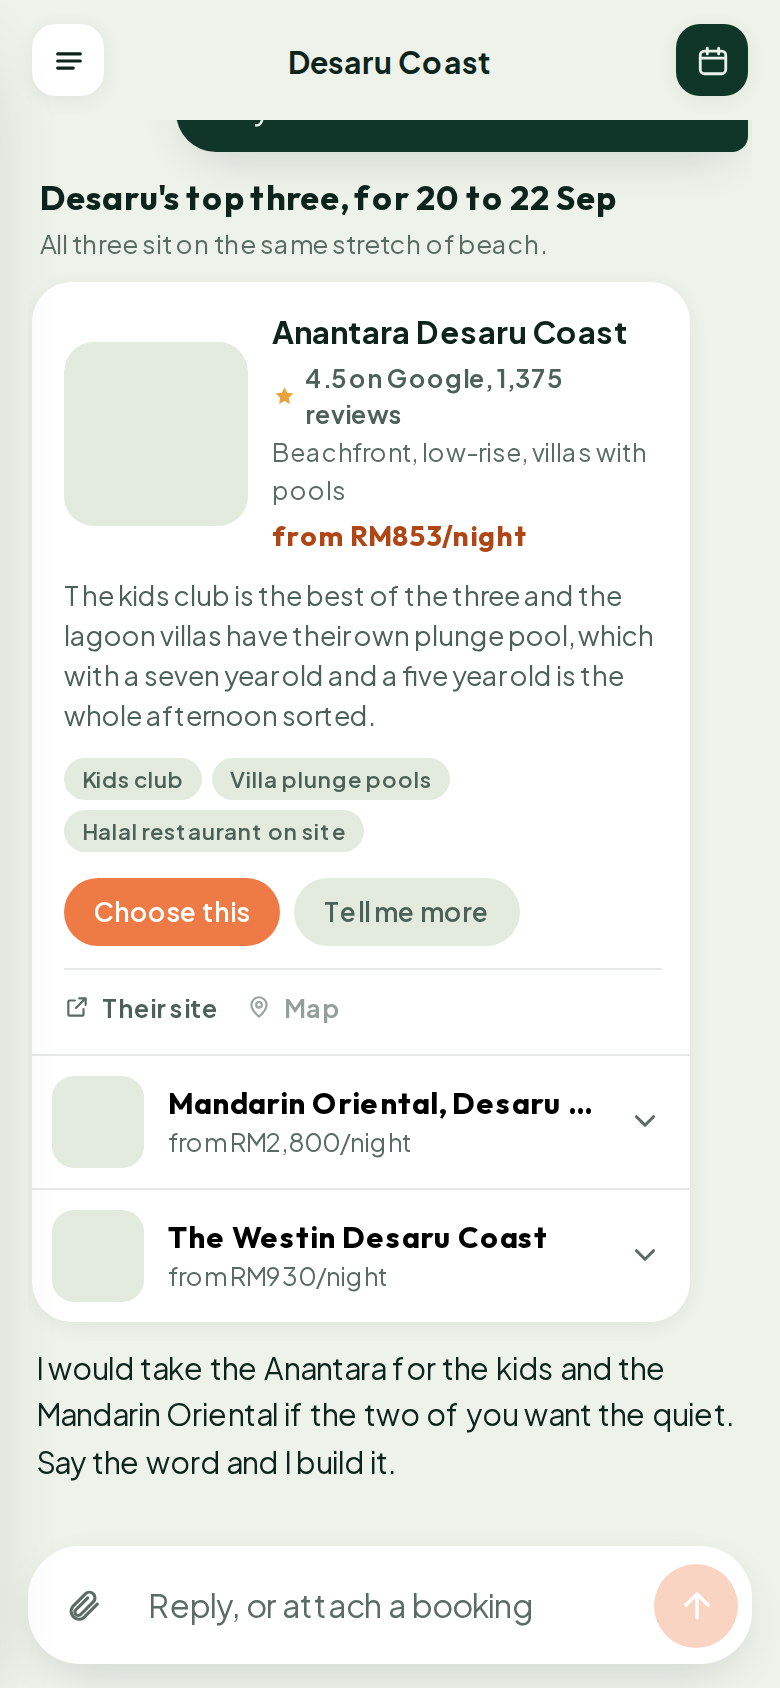
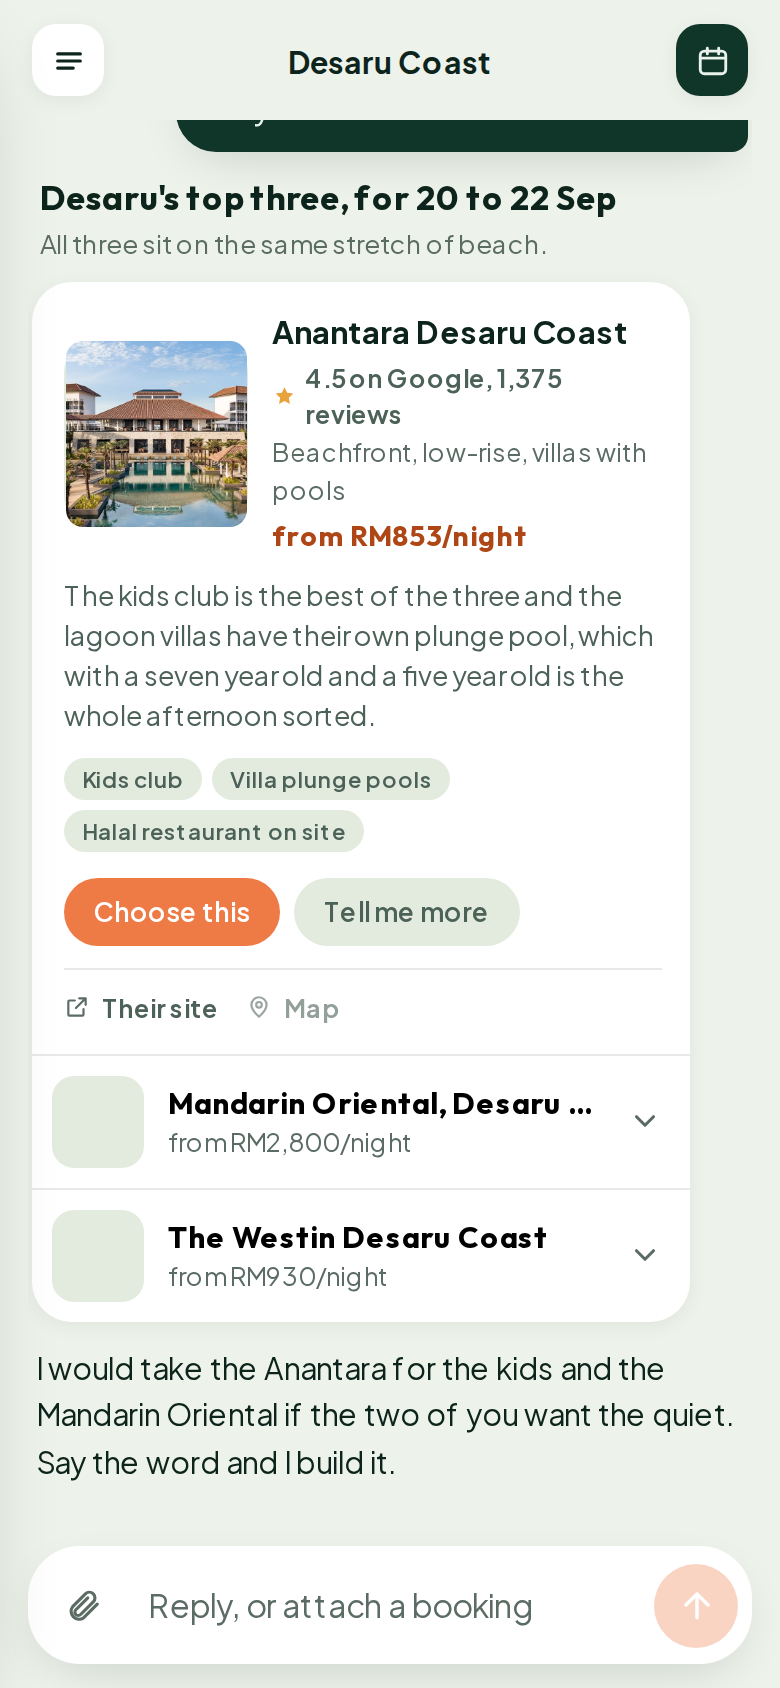
Swap the two rows, label the checks by kind, and fill the empty hotel photo
The trip types move up under the ask bar, where they read as the sort of thing
you might type next rather than a list appended to the destinations. The four
checks move down under the cards, one to a column, which lines them up with
something instead of floating.

In the proof section the orange line was the answer itself, which meant each
one had to be read before you knew what kind of check it was. It names the kind
now, and the answer opens the sentence underneath: distance and drive time,
daylight, what you have booked, who is travelling.

The Anantara card had an empty photo slot, because the app fetches those from
Google and this sandbox cannot reach the image host. Raffy supplied a
photograph of the resort and it is composited into the slot at its real
coordinates with the card's own corner radius, so the screenshot now shows what
the app actually shows. The two collapsed rows below it still have empty
thumbnails; they are small and only visible on close inspection.

Claude-Session: https://claude.ai/code/session_01XX4qYWhMzcajorKvPXrgW7

Changed region(s): [[0.0615, 0.1848, 0.3385, 0.3389]]

diff --git a/public/welcome/index.html b/public/welcome/index.html
@@ -158,7 +158,7 @@ h1 .soft{color:var(--ink-soft);font-weight:700}
 @media (min-width:700px){.ask .btn{width:auto}}
 
 /* what it checks, four across */
-.trust{display:grid;gap:20px;margin-top:56px;padding-bottom:10px}
+.trust{display:grid;gap:20px;margin-top:52px}
 @media (min-width:640px){.trust{grid-template-columns:1fr 1fr;gap:24px 34px}}
 @media (min-width:980px){.trust{grid-template-columns:repeat(4,1fr)}}
 .tr b{display:flex;align-items:center;gap:10px;font-family:'Outfit',sans-serif;font-weight:750;font-size:15.5px;letter-spacing:-.012em;line-height:1}
@@ -168,8 +168,8 @@ h1 .soft{color:var(--ink-soft);font-weight:700}
 
 /* ---------- sections ---------- */
 section{padding:66px 0}
-.tight{padding-top:64px}
-@media (min-width:900px){.tight{padding-top:78px}}
+.tight{padding-top:70px}
+@media (min-width:900px){.tight{padding-top:88px}}
 @media (min-width:900px){section{padding:104px 0}}
 .dark{background:var(--deep);color:#E7EFE8}
 .dark h2,.dark h3{color:#F2F7F2}
@@ -215,7 +215,7 @@ section{padding:66px 0}
 .destgo svg{width:15px;height:15px}
 
 /* the kinds of trip it handles */
-.cats{display:flex;flex-wrap:wrap;gap:10px 26px;justify-content:center;margin-top:44px}
+.cats{display:flex;flex-wrap:wrap;gap:14px 26px;justify-content:center;margin-top:40px;padding-bottom:6px}
 .cat{display:flex;flex-direction:column;align-items:center;gap:9px;width:88px}
 .cat .ic{width:52px;height:52px;border-radius:50%;background:var(--paper-2);border:1px solid var(--line);display:grid;place-items:center;color:var(--deep)}
 .cat .ic svg{width:21px;height:21px}
@@ -370,24 +370,13 @@ footer{padding:44px 0 40px;border-top:1px solid var(--line);color:var(--ink-fain
       <span class="btn btn-primary">Plan a trip</span>
     </a>
 
-    <div class="trust">
-      <div class="tr">
-        <b><span class="ic"><svg viewBox="0 0 24 24" fill="none" stroke="currentColor" stroke-width="2" stroke-linecap="round" stroke-linejoin="round"><path d="M20.6 13.4 12 22l-9-9V4a1 1 0 0 1 1-1h9z"/><circle cx="7.5" cy="7.5" r="1.4"/></svg></span>Live rates</b>
-        <span>Room and flight prices for your dates, not last year&rsquo;s.</span>
-      </div>
-      <div class="tr">
-        <b><span class="ic"><svg viewBox="0 0 24 24" fill="none" stroke="currentColor" stroke-width="2" stroke-linecap="round" stroke-linejoin="round"><circle cx="12" cy="12" r="8.6"/><path d="M12 7.2V12l3 1.9"/></svg></span>Open when you get there</b>
-        <span>It checks opening hours the week it plans, so nothing is shut when you arrive.</span>
-      </div>
-      <div class="tr">
-        <b><span class="ic"><svg viewBox="0 0 24 24" fill="none" stroke="currentColor" stroke-width="2" stroke-linecap="round" stroke-linejoin="round"><path d="M14 3H7a2 2 0 0 0-2 2v14a2 2 0 0 0 2 2h10a2 2 0 0 0 2-2V8z"/><path d="M14 3v5h5M9 13h6M9 17h4"/></svg></span>Every booking saved</b>
-        <span>Forward the confirmation and the reference is one tap away.</span>
-      </div>
-      <div class="tr">
-        <b><span class="ic"><svg viewBox="0 0 24 24" fill="none" stroke="currentColor" stroke-width="2" stroke-linecap="round" stroke-linejoin="round"><path d="M2 8.8a16 16 0 0 1 20 0M5.5 12.4a11 11 0 0 1 13 0M9 16a6 6 0 0 1 6 0"/><path d="M12 20h.01"/></svg></span>Works with no signal</b>
-        <span>The app is yours once it is built, airport wifi or not.</span>
-      </div>
-    </div>
+    <div class="cats rv">
+      <div class="cat"><span class="ic"><svg viewBox="0 0 24 24" fill="none" stroke="currentColor" stroke-width="2" stroke-linecap="round" stroke-linejoin="round"><path d="M3 20h18M6 20c0-4 3-7 7-7"/><path d="M13 13c0-4 3-7 7-7M13 13C9 13 6 10 6 6"/></svg></span><span>Beach</span></div>
+      <div class="cat"><span class="ic"><svg viewBox="0 0 24 24" fill="none" stroke="currentColor" stroke-width="2" stroke-linecap="round" stroke-linejoin="round"><circle cx="6" cy="18" r="2.6"/><circle cx="18" cy="6" r="2.6"/><path d="M7.9 16.1 16.1 7.9"/></svg></span><span>Road trip</span></div>
+      <div class="cat"><span class="ic"><svg viewBox="0 0 24 24" fill="none" stroke="currentColor" stroke-width="2" stroke-linecap="round" stroke-linejoin="round"><path d="M3 21V9l6-4v16M9 21V13h6v8M15 21V11l6 4v6M6 12h.01M6 16h.01M18 17h.01"/></svg></span><span>City break</span></div>
+      <div class="cat"><span class="ic"><svg viewBox="0 0 24 24" fill="none" stroke="currentColor" stroke-width="2" stroke-linecap="round" stroke-linejoin="round"><circle cx="12" cy="8" r="4"/><path d="M4 21c0-4 3.6-6.5 8-6.5S20 17 20 21"/></svg></span><span>With kids</span></div>
+      <div class="cat"><span class="ic"><svg viewBox="0 0 24 24" fill="none" stroke="currentColor" stroke-width="2" stroke-linecap="round" stroke-linejoin="round"><path d="M6 3v8a2 2 0 0 0 4 0V3M8 11v10M17 3c-1.5 2-2 4-2 6s.5 3 2 3v9"/></svg></span><span>Food</span></div>
+      <div class="cat"><span class="ic"><svg viewBox="0 0 24 24" fill="none" stroke="currentColor" stroke-width="2" stroke-linecap="round" stroke-linejoin="round"><path d="M3 19h18L14.5 7 11 13l-2-3z"/></svg></span><span>Mountains</span></div>
   </div>
 </section>
 
@@ -423,13 +412,24 @@ footer{padding:44px 0 40px;border-top:1px solid var(--line);color:var(--ink-fain
       </a>
     </div>
 
-    <div class="cats rv">
-      <div class="cat"><span class="ic"><svg viewBox="0 0 24 24" fill="none" stroke="currentColor" stroke-width="2" stroke-linecap="round" stroke-linejoin="round"><path d="M3 20h18M6 20c0-4 3-7 7-7"/><path d="M13 13c0-4 3-7 7-7M13 13C9 13 6 10 6 6"/></svg></span><span>Beach</span></div>
-      <div class="cat"><span class="ic"><svg viewBox="0 0 24 24" fill="none" stroke="currentColor" stroke-width="2" stroke-linecap="round" stroke-linejoin="round"><circle cx="6" cy="18" r="2.6"/><circle cx="18" cy="6" r="2.6"/><path d="M7.9 16.1 16.1 7.9"/></svg></span><span>Road trip</span></div>
-      <div class="cat"><span class="ic"><svg viewBox="0 0 24 24" fill="none" stroke="currentColor" stroke-width="2" stroke-linecap="round" stroke-linejoin="round"><path d="M3 21V9l6-4v16M9 21V13h6v8M15 21V11l6 4v6M6 12h.01M6 16h.01M18 17h.01"/></svg></span><span>City break</span></div>
-      <div class="cat"><span class="ic"><svg viewBox="0 0 24 24" fill="none" stroke="currentColor" stroke-width="2" stroke-linecap="round" stroke-linejoin="round"><circle cx="12" cy="8" r="4"/><path d="M4 21c0-4 3.6-6.5 8-6.5S20 17 20 21"/></svg></span><span>With kids</span></div>
-      <div class="cat"><span class="ic"><svg viewBox="0 0 24 24" fill="none" stroke="currentColor" stroke-width="2" stroke-linecap="round" stroke-linejoin="round"><path d="M6 3v8a2 2 0 0 0 4 0V3M8 11v10M17 3c-1.5 2-2 4-2 6s.5 3 2 3v9"/></svg></span><span>Food</span></div>
-      <div class="cat"><span class="ic"><svg viewBox="0 0 24 24" fill="none" stroke="currentColor" stroke-width="2" stroke-linecap="round" stroke-linejoin="round"><path d="M3 19h18L14.5 7 11 13l-2-3z"/></svg></span><span>Mountains</span></div>
+    <div class="trust">
+      <div class="tr">
+        <b><span class="ic"><svg viewBox="0 0 24 24" fill="none" stroke="currentColor" stroke-width="2" stroke-linecap="round" stroke-linejoin="round"><path d="M20.6 13.4 12 22l-9-9V4a1 1 0 0 1 1-1h9z"/><circle cx="7.5" cy="7.5" r="1.4"/></svg></span>Live rates</b>
+        <span>Room and flight prices for your dates, not last year&rsquo;s.</span>
+      </div>
+      <div class="tr">
+        <b><span class="ic"><svg viewBox="0 0 24 24" fill="none" stroke="currentColor" stroke-width="2" stroke-linecap="round" stroke-linejoin="round"><circle cx="12" cy="12" r="8.6"/><path d="M12 7.2V12l3 1.9"/></svg></span>Open when you get there</b>
+        <span>It checks opening hours the week it plans, so nothing is shut when you arrive.</span>
+      </div>
+      <div class="tr">
+        <b><span class="ic"><svg viewBox="0 0 24 24" fill="none" stroke="currentColor" stroke-width="2" stroke-linecap="round" stroke-linejoin="round"><path d="M14 3H7a2 2 0 0 0-2 2v14a2 2 0 0 0 2 2h10a2 2 0 0 0 2-2V8z"/><path d="M14 3v5h5M9 13h6M9 17h4"/></svg></span>Every booking saved</b>
+        <span>Forward the confirmation and the reference is one tap away.</span>
+      </div>
+      <div class="tr">
+        <b><span class="ic"><svg viewBox="0 0 24 24" fill="none" stroke="currentColor" stroke-width="2" stroke-linecap="round" stroke-linejoin="round"><path d="M2 8.8a16 16 0 0 1 20 0M5.5 12.4a11 11 0 0 1 13 0M9 16a6 6 0 0 1 6 0"/><path d="M12 20h.01"/></svg></span>Works with no signal</b>
+        <span>The app is yours once it is built, airport wifi or not.</span>
+      </div>
+    </div>
     </div>
   </div>
 </section>
@@ -452,20 +452,20 @@ footer{padding:44px 0 40px;border-top:1px solid var(--line);color:var(--ink-fain
 
       <div class="notes rv">
         <div class="note">
-          <b><span class="q">389km, about 4.5 hours</span></b>
-          <span>It asked Google how long that drive really takes on a Sunday morning, in the traffic there actually is.</span>
+          <b><span class="q">Distance and drive time</span></b>
+          <span>389km, about 4.5 hours. It asked Google how long that road really takes on a Sunday morning, in the traffic there actually is.</span>
         </div>
         <div class="note">
-          <b><span class="q">Sunrise 6:55am, sunset 7:23pm</span></b>
-          <span>It checked what time it gets dark there, so the afternoon at the beach is not planned for after the sun goes down.</span>
+          <b><span class="q">Daylight</span></b>
+          <span>Sunrise 6:55am, sunset 7:23pm. So the afternoon at the beach is not planned for after the sun has gone down.</span>
         </div>
         <div class="note">
-          <b><span class="q">This stay is not booked yet</span></b>
-          <span>It keeps track of what you have actually paid for. If a day depends on a hotel you have not booked, it tells you on that day.</span>
+          <b><span class="q">What you have booked</span></b>
+          <span>This stay is not paid for yet, so it says so on the day that depends on it. Nothing quietly becomes a fact.</span>
         </div>
         <div class="note">
-          <b><span class="q">Inside Raes&rsquo;s good hours</span></b>
-          <span>It was told there is a nine month old in the car. So it put the long drive in the part of the day she normally sleeps.</span>
+          <b><span class="q">Who is travelling</span></b>
+          <span>It was told there is a nine month old in the car, so it put the long drive in the part of the day she normally sleeps.</span>
         </div>
       </div>
     </div>
